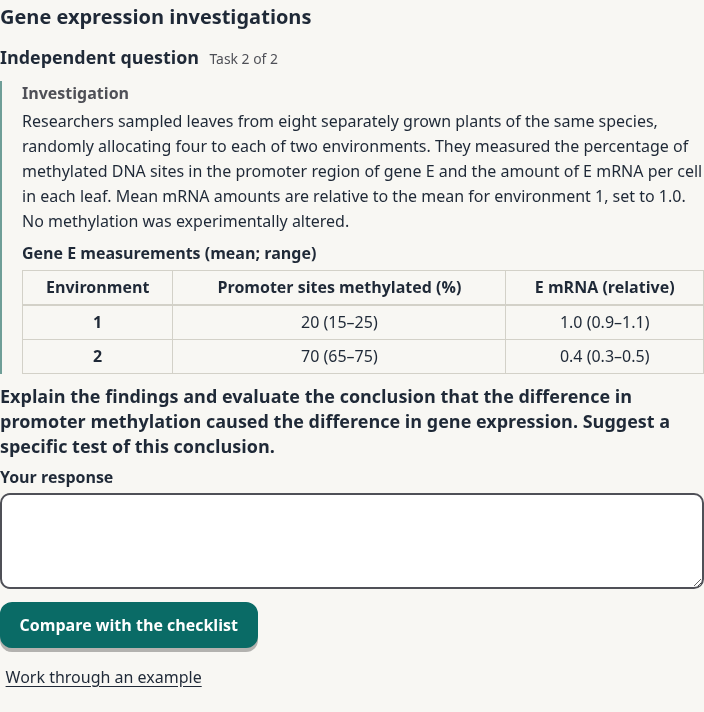
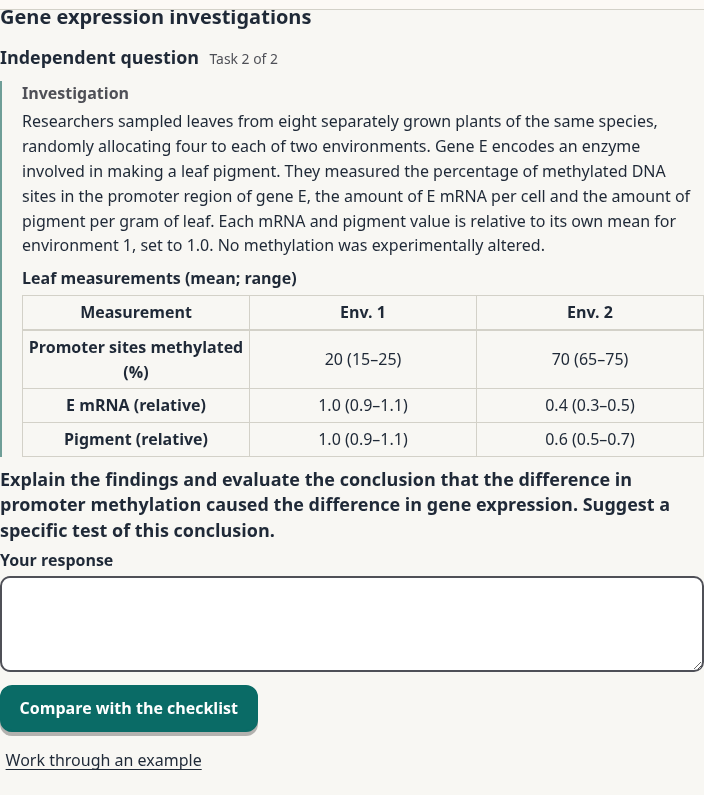
Fix investigation checks and mobile evidence

Changed region(s): [[0.0, 0.0, 1.0, 0.7416], [0.0, 0.8034, 0.375, 0.9888], [0.9688, 0.8034, 1.0, 0.8652]]

diff --git a/public/alevel/investigation-practice.js b/public/alevel/investigation-practice.js
@@ -151,7 +151,8 @@
     {
       kind: "writing",
       passage: ["Researchers introduced short double-stranded RNA molecules into cultured animal cells. One RNA had a nucleotide sequence matching part of the mRNA made from gene C. A control RNA had no matching sequence in either gene C or gene D mRNA. Four independent cultures received each RNA. After 24 hours the researchers measured mRNA and protein per cell for both genes. Each value is relative to the corresponding control mean, set to 1.0."],
-      evidence: ["Measurements after RNA introduction (mean; range)", ["RNA introduced", "C mRNA", "C protein", "D mRNA", "D protein"], [["Control RNA", "1.0 (0.9–1.1)", "1.0 (0.9–1.1)", "1.0 (0.9–1.1)", "1.0 (0.9–1.1)"], ["Matching RNA", "0.3 (0.2–0.4)", "0.5 (0.4–0.6)", "1.0 (0.9–1.1)", "1.0 (0.9–1.1)"]]],
+      compactEvidence: true,
+      evidence: ["Measurements after RNA introduction (mean; range)", ["Gene", "RNA", "mRNA", "Protein"], [["C", "Control", "1.0 (0.9–1.1)", "1.0 (0.9–1.1)"], ["C", "Matching", "0.3 (0.2–0.4)", "0.5 (0.4–0.6)"], ["D", "Control", "1.0 (0.9–1.1)", "1.0 (0.9–1.1)"], ["D", "Matching", "1.0 (0.9–1.1)", "1.0 (0.9–1.1)"]]],
       prompt: "Explain the findings using relevant biological knowledge. Evaluate how far the results establish the mechanism responsible.",
       points: ["Compare matching RNA with control RNA: mean C mRNA is 0.3 and C protein 0.5 of control; D measurements remain at 1.0.", "Explain a plausible RNA interference mechanism: a strand of short RNA associates with a protein complex and pairs with complementary C mRNA, which can be degraded or have translation inhibited.", "Link less available C mRNA to less protein synthesis, while recognising protein abundance also depends on breakdown and need not be proportional to mRNA.", "Qualify the claim: the control and unchanged D give a useful comparison, but four cultures and endpoint abundances do not prove the mechanism; effects on transcription, mRNA stability or protein breakdown remain possible. A direct test of C mRNA breakdown or the RNA–mRNA interaction could strengthen the evidence."],
       repairs: ["Compare each gene under matching and control RNA, using its own reference value.", "How can a short RNA sequence recognise a particular mRNA and affect its fate?", "Does the amount of protein measured depend only on synthesis?", "Which process was measured directly? What additional measurement could discriminate explanations?"],
@@ -159,12 +160,13 @@
     },
     {
       kind: "writing",
-      passage: ["Researchers sampled leaves from eight separately grown plants of the same species, randomly allocating four to each of two environments. They measured the percentage of methylated DNA sites in the promoter region of gene E and the amount of E mRNA per cell in each leaf. Mean mRNA amounts are relative to the mean for environment 1, set to 1.0. No methylation was experimentally altered."],
-      evidence: ["Gene E measurements (mean; range)", ["Environment", "Promoter sites methylated (%)", "E mRNA (relative)"], [["1", "20 (15–25)", "1.0 (0.9–1.1)"], ["2", "70 (65–75)", "0.4 (0.3–0.5)"]]],
+      passage: ["Researchers sampled leaves from eight separately grown plants of the same species, randomly allocating four to each of two environments. Gene E encodes an enzyme involved in making a leaf pigment. They measured the percentage of methylated DNA sites in the promoter region of gene E, the amount of E mRNA per cell and the amount of pigment per gram of leaf. Each mRNA and pigment value is relative to its own mean for environment 1, set to 1.0. No methylation was experimentally altered."],
+      compactEvidence: true,
+      evidence: ["Leaf measurements (mean; range)", ["Measurement", "Env. 1", "Env. 2"], [["Promoter sites methylated (%)", "20 (15–25)", "70 (65–75)"], ["E mRNA (relative)", "1.0 (0.9–1.1)", "0.4 (0.3–0.5)"], ["Pigment (relative)", "1.0 (0.9–1.1)", "0.6 (0.5–0.7)"]]],
       prompt: "Explain the findings and evaluate the conclusion that the difference in promoter methylation caused the difference in gene expression. Suggest a specific test of this conclusion.",
-      points: ["Compare both measurements: environment 2 has 50 percentage points more promoter sites methylated and 0.4 times the mean mRNA amount of environment 1.", "Explain how DNA methylation can restrict transcription factor access or binding, reducing transcription and potentially mRNA abundance.", "Distinguish the observed association from causation: the environments differ and may affect other regulators or mRNA breakdown; abundance is not a direct transcription rate.", "Use the four independently grown plants and ranges appropriately; propose a specific intervention or measurement to test causation, such as altering methylation at the promoter while holding other conditions constant."],
-      repairs: ["Compare percentages in percentage points and mRNA with its own reference mean.", "How could a promoter modification affect initiation of transcription?", "What else differs between the groups, and what else changes mRNA abundance?", "How might a controlled manipulation separate methylation from other environmental effects?"],
-      modelAnswer: ["Environment 2 plants have 70% rather than 20% of promoter sites methylated, a difference of 50 percentage points, and 0.4 times the mean E mRNA. Increased methylation could restrict transcription factor binding, reducing transcription and the amount of E mRNA.", "This is an association, not proof of causation. The environments could affect other regulators or mRNA breakdown, and mRNA abundance is not a direct transcription rate. Four independently grown plants per environment show some variation, but do not establish a general causal effect. Specifically changing methylation at the promoter while holding other conditions constant, and measuring transcription, would help test the proposed cause."],
+      points: ["Compare the measurements: environment 2 has 50 percentage points more promoter sites methylated, 0.4 times the mean mRNA amount and 0.6 times the mean pigment amount of environment 1.", "Explain how DNA methylation can restrict transcription factor access or binding, reducing transcription and potentially mRNA abundance. Less mRNA could produce less enzyme and therefore less pigment.", "Distinguish association from causation: the environments may affect other regulators, mRNA breakdown, other steps in pigment production or pigment breakdown. Neither transcription rate nor enzyme abundance or activity was measured.", "Use the four independently grown plants and ranges appropriately; propose a specific intervention or measurement to test causation, such as altering methylation at the promoter while holding other conditions constant."],
+      repairs: ["Compare percentages in percentage points, and each other measurement with its own reference mean.", "How could a promoter modification affect transcription, and how might an enzyme link mRNA to pigment?", "What else differs between the groups, and which steps between mRNA and pigment were not measured?", "How might a controlled manipulation separate methylation from other environmental effects?"],
+      modelAnswer: ["Environment 2 plants have 70% rather than 20% of promoter sites methylated, a difference of 50 percentage points, 0.4 times the mean E mRNA and 0.6 times the mean pigment per gram. Increased methylation could restrict transcription factor binding, reducing transcription and E mRNA. Less mRNA could result in less enzyme and hence less pigment.", "This is an association, not proof of causation. The environments could affect other regulators, mRNA breakdown, other steps in pigment production or pigment breakdown. Neither transcription rate nor enzyme abundance or activity was measured. Four independently grown plants per environment show some variation, but do not establish a general causal effect. Specifically changing methylation at the promoter while holding other conditions constant, and measuring transcription, would help test the proposed cause."],
     },
   ],
 };

diff --git a/public/alevel/exam-skills.js b/public/alevel/exam-skills.js
@@ -70,7 +70,7 @@
     }
   });
 
-  function table(caption, headers, rows, highlights = [], paper = false, gene = false) {
+  function table(caption, headers, rows, highlights = [], paper = false, gene = false, compact = false) {
     const wrap = node(paper ? "al-paper-scroll" : "div", null, "al-table"),
       t = node("table");
     if (paper) wrap.dataset.label = caption;
@@ -96,7 +96,7 @@
     });
     wrap.append(t);
     if (!gene) return wrap;
-    const container = node("div", null, "al-gene-table");
+    const container = node("div", null, compact ? "al-gene-table al-gene-table-compact" : "al-gene-table");
     const visibleCaption = node("p", caption, "al-gene-caption");
     visibleCaption.setAttribute("aria-hidden", "true");
     container.append(visibleCaption, node("p", "Scroll the table horizontally to see all columns.", "al-gene-scroll-hint"), wrap);
@@ -691,7 +691,7 @@
         if (q.stimulus) stimulus.append(node("p", q.stimulus));
         for (const paragraph of q.passage || []) stimulus.append(node("p", paragraph));
         if (q.visual) stimulus.append(visual(q.visual));
-        if (q.evidence) stimulus.append(table(...q.evidence, [], flow.paper, family.id === "geneExpression"));
+        if (q.evidence) stimulus.append(table(...q.evidence, [], flow.paper, family.id === "geneExpression", q.compactEvidence));
         question.append(stimulus);
         if (flow.paper) {
           prompt = node("h3", q.prompt, "al-task-prompt");
@@ -1873,12 +1873,14 @@
       }
       const family = families[id];
       host.append(node("h1", family.title));
-      journey(host, family, { context: contextualLink(family, "exam-" + id) });
+      const original = id === "regulation" ? node("div", null, "al-regulation-original") : host;
+      if (original !== host) host.append(original);
+      journey(original, family, { context: contextualLink(family, "exam-" + id) });
       if (id === "regulation") {
         const investigation = node("section", null, "al-paper-practice al-gene-expression");
         investigation.append(node("h2", "Gene expression investigations"));
         host.append(investigation);
-        journey(investigation, window.ALevelPaperPractice.geneExpression, { paper: { stimulus: "Investigation" } });
+        journey(investigation, window.ALevelPaperPractice.geneExpression, { paper: { stimulus: "Investigation", back: ["Exam Skills", "#exam"], related: [] } });
       }
       const followOn = { interpret: "passages", practical: "investigations", evidence: "investigations", extended: "essaywriting" }[id];
       if (followOn) host.append(quietLink(window.ALevelPaperPractice[followOn].title, "#exam-" + followOn));

diff --git a/public/alevel/exam-skills.css b/public/alevel/exam-skills.css
@@ -782,3 +782,9 @@ html:has(.al-revision, .al-completed-review[open]) {
     font-size: .875rem;
   }
 }
+
+.al-gene-expression .al-gene-table-compact table { min-width: 0; width: 100%; table-layout: fixed; }
+.al-gene-table-compact .al-gene-scroll-hint { display: none; }
+@media (max-width: 360px) {
+  .al-gene-table-compact th { font-size: .8rem; padding-inline: .15rem; }
+}
